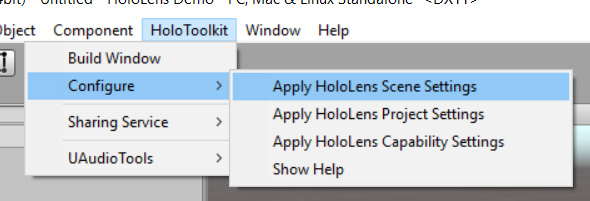
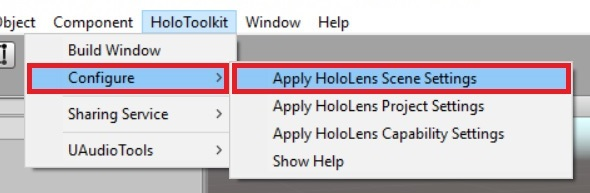
Edited Exercise 4 of the HoloLens lab

diff --git a/Mixed Reality/HoloLens (Draft)/Session 2 - Hands On/HoloLens HOL.md b/Mixed Reality/HoloLens (Draft)/Session 2 - Hands On/HoloLens HOL.md
@@ -265,76 +265,71 @@ Congratulations! You've created and built a Unity project that supports the Wind
 <a name="Exercise4"></a>
 ## Exercise 4: Use HoloToolkit to expedite holographic development ##
 
-In this exercise, we will start over with a new project, using HoloToolkit to streamline the project setup.
+In this exercise, you will create a new project and use HoloToolkit to streamline the project setup.
 
-1. Download or clone the HoloToolkit repository from GitHub to your local Windows PC. The repository can be found at [https://github.com/Microsoft/HoloToolkit-Unity](https://github.com/Microsoft/HoloToolkit-Unity). This package is updated frequently, and you will likely want to be using the latest and greatest.
+1. Download or clone the HoloToolkit repository from GitHub to your local Windows PC. The repository can be found at https://github.com/Microsoft/HoloToolkit-Unity. This package is updated frequently, and you will likely want to use the latest and greatest.
 
-1. Open the downloaded project folder for HoloToolkit in Unity.
+1. Open the downloaded HoloToolkit project folder in Unity.
 
-1. In the **Project** window pane, select the **Assets** root folder. Right-click the folder and select **Export Package...**.
+1. In the "Project" pane, select the "Assets" folder in the root. Right-click the folder and select **Export Package...**. Be sure to export the entire "Assets" folder, including dependencies.
 
-    > **WARNING:** Be sure to export the entire Assets folder, including dependencies
+    ![Exporting assets as a package](Images/export.jpg)
 
-    ![Exporting Package](Images/export.jpg)
+    _Exporting assets as a package_
 
-    _Exporting Assets as a Package_
+1. Enter a name and location for the exported package file. The package can be reused in other projects, so it is a good idea to save it outside of your project folders. It is also advisable to include the current date in the package's file name so you are always aware of how old the package content is.
 
-1. Select a name and location for the exported package file. This package can be re-used among multiple projects, so it is a good idea to save it outside of your project folders. It is also a good idea to include the current date in the package filename so you are always aware of how old the package content might be.
-
-1. Create a new Unity project.
-
-1. From the **Assets** menu, select **Import Package** and then **Custom Package...**.
+1. Click **+ New** and create a new Unity project. From the **Assets** menu, select **Import Package** and then **Custom Package...**.
 
     ![Importing Package](Images/import.jpg)
 
     _Importing HoloToolkit_
 
-1. Select the package file that was exported above, and click the **Open...** button.
+1. Select the package file that you exported in Step 3, and click the **Open...** button.
 
-1. Unity gives the option of selecting which assets to import - in this case, you could unselect the **HoloToolkit-Examples** subtree to reduce the size of this application's codebase. Once you've decided on which assets to include, click the **Import** button.
+1. Unity gives you the option of selecting which assets to import. In this case, you can unselect the "HoloToolkit-Examples" subtree to reduce the size of the code base. Once you've specified which assets to include, click the **Import** button.
 
-    > **NOTE:** This step imports a number of very useful assets (some of which we will use in Exercise 6). It also extends the Unity Editor by adding a new menu that provides quick access to some frequently performed actions. We will make use of these shortly.
+    > This imports a number of useful assets, some of which you will use in Exercise 6. It also adds a new top-level menu item to the Unity editor that provides quick access to some frequently performed actions. You will make use of these shortly.
 
-1. Find the default Main Camera in the new project's starting scene. Right-click and **Delete** it.
+1. Find the default Main Camera in the project's starting scene. Right-click it and select **Delete** to delete it.
 
-    ![Delete Default Main Camera](Images/delete_camera.jpg)
+    ![Deleting the default main camera](Images/delete_camera.jpg)
 
-    _Delete the Default Main Camera_
+    _Deleting the default main camera_
 
-1. In the **Project** panel, expand the **Assets** folder to expose the **HoloToolkit** subfolder. Expand again to find the **Input** and **Prefabs** folders.
+1. In the "Project" panel, expand the "Assets" folder to expose the subfolder named "HoloToolkit." Expand again to find the "Input" and "Prefabs" folders. Then drag **HoloLensCamera.prefab** and drop it over the main scene node in the "Hierarchy" treeview. This camera is preconfigured to function properly in a HoloLens application. Remember to **reset the camera after placing it**. (See Exercise 3, Step 7 to remind yourself how to do it.)
 
-    Drag the **HoloLensCamera.prefab** item up to the main scene node in the scene's **Hierarchy** treeview and drop it directly on that scene node. This camera is preconfigured to function properly in a HoloLens application. Remember to reset the **Rotation** of the camera after placing it.
+    ![Adding Prefab main camera](Images/camera_prefab.jpg)
 
-    ![Add Prefab Main Camera](Images/camera_prefab.jpg)
+    _Adding a prefab main camera_
 
-    _Add a prefab Main Camera_
+1. From the **HoloToolkit** menu, select **Configure**, and then select **Apply HoloLens Scene Settings**.
 
-1. From the **HoloToolkit** menu, select the **Configure** submenu, and then select **Apply HoloLens Scene Settings**.
+    ![Configuring HoloToolkit](Images/macros.jpg)
 
-    Repeat this sequence, selecting **Apply HoloLens Project Settings** this time (you may be prompted to reload the project).
+    _Configuring HoloToolkit_
 
-    Repeat one more time, selecting **Apply HoloLens Capability Settings** this time, selecting the capabilities this application will need.
+1. Repeat this sequence, but this time select **Apply HoloLens Project Settings** (you may be prompted to reload the project).
 
-    > **TIP:** You may also need to manually enable the **Unity C# Projects** build setting - these macros don't seem to always set this option properly.
+1. Repeat one more time, but this time select **Apply HoloLens Capability Settings**.
 
-    ![Configuration Macros](Images/macros.jpg)
+    > You may also need to manually enable the **Unity C# Projects** build setting. These menu commands don't seem to always set this option properly.
 
-    _Project Configuration Macros_
-
-1. From the **HoloToolkit** menu, select **Build Window**. From here, you can directly build/export to a Visual Studio solution and also launch Visual Studio with that exported solution. This is usually a more convenient method of working than if you were not using HoloToolkit.
+1. From the **HoloToolkit** menu, select **Build Window**. From here, you can directly build/export to a Visual Studio solution and also launch Visual Studio with the exported solution.
 
     - To export the current Unity project to Visual Studio, click the **Build Visual Studio SLN** button
     - To launch Visual Studio with this exported solution, click the **Open SLN** button
-    - It is also possible to compile a final APPX package and deploy it directly from this dialog window, but this is not as common as compiling and deploying from Visual Studio
 
-    > **TIP:** You only need to click the **Build Visual Studio SLN** button here when non-script assets have been changed. Script changes are automatically kept in sync between Visual Studio and Unity.
+	It is also possible to compile a final APPX package and deploy it directly from this dialog, but this is not as common as compiling and deploying from Visual Studio.
 
-We first covered how to create a new Unity project from scratch to learn how exactly a holographic application differs from other Unity applications (mostly through certain project-level settings). After gaining an appreciation for that, we then covered a quicker method that takes care of much of that tediousness. This second method also provided some additional benefit through prefabricated components that we can use to speed up development of our own applications.
+    > You only need to click the **Build Visual Studio SLN** button when non-script assets have changed. Script changes are automatically kept in sync between Visual Studio and Unity.
+
+You now know how to configure a holographic project manually, and how to expedite the process with HoloToolkit. The latter provides some additional benefit in the form of prefabricated components that speed the development process. With the project set up, it is now time to build it so you can see it come to life.
 
 <a name="Exercise5"></a>
 ## Exercise 5: Compile and Debug in Visual Studio ##
 
-In the previous two exercises, we walked through two different ways of creating a new holographic project in Unity. In this exercise, we will cover the steps needed to compile and run these applications.
+In the previous two exercises, you learned through two different to configure a new holographic project in Unity. In this exercise, you will learn how to compile and run the apps that you create.
 
 1. In Unity, open either project that was created during the previous two exercises.
 
